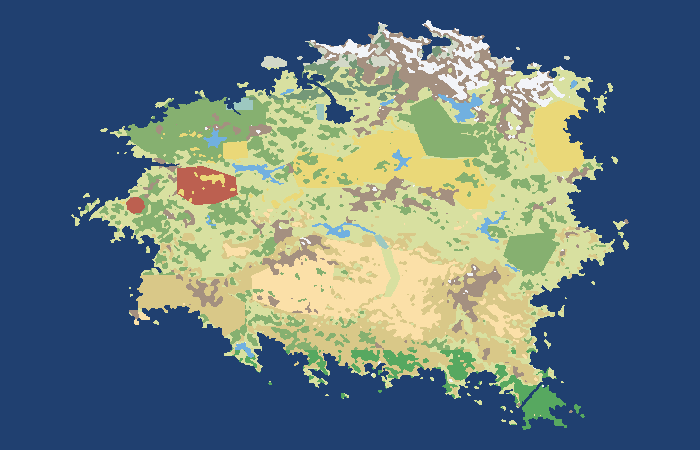
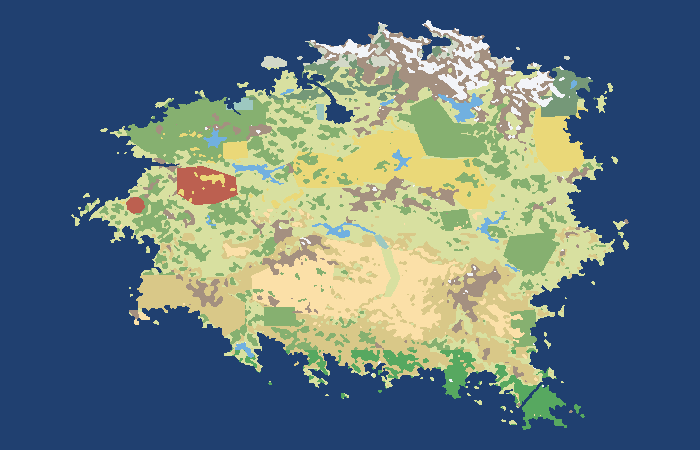
M1 design: ground words for the woods and coasts, sea links, final seats before the write-up [skip ci]
Claude-Session: https://claude.ai/code/session_01E88gMLSb1Qq1nofSPwe7KK

diff --git a/docs/design/m1/design/tables.md b/docs/design/m1/design/tables.md
@@ -166,8 +166,8 @@ Land: 126,642 cells (12,664,200 km2, 40.2% of the frame); the continent 124,287 
 | 53 | Ranpur | Ranpur | capital city | 5305, 3045 | 63,200 | plains | the Eastern Gulf, the Chanpur, the Gullet | the Chanpur's mouth on the Eastern Gulf |
 | 54 | Chanari | Ranpur | city | 5095, 2935 | 75,900 | plains | the Reed Water, the Chanpur, the Gullet | the steel town in the Worldspine's foothills, on the Chanpur |
 | 55 | Tiravi | Ranpur | town | 5085, 2765 | 22,300 | hills | the Reed Water, the Gullet | the Nagora March under the pass (Tirpur fort) |
-| 56 | Madora | Ranpur | market town | 5275, 3285 | 55,800 | plains | the Eastern Gulf, the Madora | the river-mouth fort and teak harbour of the south coast |
-| 57 | Ekapur | Ranpur | market town | 5255, 3165 | 41,500 | plains | the Eastern Gulf, the Chanpur | shore town south of the capital |
+| 56 | Madora | Ranpur | market town | 5275, 3285 | 55,800 | forest | the Eastern Gulf, the Madora | the river-mouth fort and teak harbour of the south coast |
+| 57 | Ekapur | Ranpur | market town | 5255, 3165 | 41,500 | forest | the Eastern Gulf, the Chanpur | shore town south of the capital |
 | 58 | Varenna | Varenna | capital city | 1565, 2625 | 17,300 | forest | the Lion Gulf, the Palella | the Palella's mouth on the Lion Gulf, the only river gate through the coast hills |
 | 59 | Ardata | Varenna | town | 2785, 1845 | 79,900 | plains | the Glenmere, the Glenwash, the Skardush | march town at the east end of the Glenmere, under the Albora Sill |
 | 60 | Camia | Varenna | city | 2135, 2415 | 46,400 | plains | the Crowmere, the Palella | weaving town on the middle Palella |
@@ -295,7 +295,7 @@ Land: 126,642 cells (12,664,200 km2, 40.2% of the frame); the continent 124,287 
 | 182 | Agbay Yam | Ulun | yam station | 4885, 1885 | 24,300 | steppe | the Grey Channel, the Ostec | yam station on the channel shore |
 | 183 | Altsa Yam | Ulun | yam station | 4845, 2005 | 46,100 | steppe | the Grey Water, the Grey Channel | yam station at the Erkent landings of the Sea Wind |
 | 184 | Grakmar | Ughrak | capital city | 5585, 1405 | 38,200 | steppe | the Sunrise Sea | the War-Mother's camp in the middle of the grass |
-| 185 | Drukgar Stockade | Ughrak | ring-fort | 5605, 1105 | 113,700 | steppe | the Sunrise Sea | northern fort at the forest edge |
+| 185 | Drukgar Stockade | Ughrak | ring-fort | 5605, 1105 | 113,700 | forest | the Sunrise Sea | northern fort at the forest edge |
 | 186 | Oggoth Oasis | Ughrak | oasis | 5775, 1555 | 84,000 | steppe | the Sunrise Sea | wells by the coast hills |
 | 187 | Tukgar Stockade | Ughrak | ring-fort | 5415, 1515 | 67,100 | steppe |  | fort under the Mirovo Gap (the Kraoth toll camp) |
 | 188 | Vashuk Oasis | Ughrak | oasis | 5405, 1255 | 120,900 | steppe |  | wells of the Turquoise Hills, on the east face of the Rift Heights |
@@ -393,7 +393,7 @@ Land: 126,642 cells (12,664,200 km2, 40.2% of the frame); the continent 124,287 
 | 280 | Qarifa | Qadir | market town | 1815, 2935 | 25,600 | plains | the Saman | the Saman mills |
 | 281 | The Free Marches | the wilds | unclaimed land | 5335, 2525 | 194,100 | forest | the Reed Water, the Gullet, the Tirana | the forested lowland between the Gullet, the Roof and the Ember Mountains |
 | 282 | The Frostfells | the wilds | unclaimed land | 4075, 715 | 85,400 | mountains | the Northern Ocean | the snow range north-west of the Western Lakes |
-| 283 | The Whale Woods | the wilds | unclaimed land | 5615, 785 | 64,300 | plains | the Northern Ocean, the Seal Lagoon | the forest cape east of Whale Sound |
+| 283 | The Whale Woods | the wilds | unclaimed land | 5615, 785 | 64,300 | forest | the Northern Ocean, the Seal Lagoon | the forest cape east of Whale Sound |
 | 284 | The High Wastes | the wilds | unclaimed land | 5805, 1725 | 22,300 | mountains | the Sunrise Sea | the coast mountains north-east of the Roof |
 | 285 | The Amber Wilds | the wilds | unclaimed land | 5465, 4165 | 19,900 | forest | the Sunrise Sea | the hill interior of Great Amber |
 | 286 | The Isle of Pearls | the wilds | unclaimed land | 5775, 4085 | 4,900 | forest | the Sunrise Sea | the pearl isle east of Great Amber |
@@ -401,20 +401,20 @@ Land: 126,642 cells (12,664,200 km2, 40.2% of the frame); the continent 124,287 
 | 288 | The Burning Waste | the wilds | unclaimed land | 4435, 2905 | 42,800 | hills |  | the bare ranges between the Long Rift and the Worldspine, which no clan grazes |
 | 289 | The Western Veld | the wilds | unclaimed land | 2425, 3515 | 37,800 | plains | the Southern Ocean, the Veld Lagoon | the south-west peninsula |
 | 290 | The Thornveld | the wilds | unclaimed land | 4975, 3555 | 29,200 | hills |  | the dry head of the south-east peninsula |
-| 291 | The Deep Green | the wilds | unclaimed land | 4525, 3795 | 49,800 | plains | the Southern Ocean, the Spice Sea | the rainforest cape |
+| 291 | The Deep Green | the wilds | unclaimed land | 4525, 3795 | 49,800 | forest | the Southern Ocean, the Spice Sea | the rainforest cape |
 | 292 | The Western Highlands | the wilds | unclaimed land | 1555, 1555 | 19,400 | hills | the Long Firth | the coast heights between the Elder Coast and Ashmere |
 | 293 | The Ashlands | the wilds | unclaimed land | 1295, 2125 | 130,100 | plains | the Lion Gulf, the Strait of Hael, the Western Ocean | the western peninsula under Mount Hael |
 | 294 | The Pinewild | the wilds | unclaimed land | 3775, 765 | 85,600 | mountains |  | the pine fells between Cold Bay and the Frostfells |
 | 295 | The Little Amber Wilds | the wilds | unclaimed land | 5825, 4155 | 1,300 | forest | the Sunrise Sea | the lesser isle |
 | 296 | The Bleakfold | the wilds | unclaimed land | 1745, 1585 | 34,100 | forest | the Bleak Water | the bare heights behind the Western Highlands |
-| 297 | The Tverko Woods | the wilds | unclaimed land | 5855, 885 | 34,300 | plains | the Northern Ocean, the Seal Lagoon, the Sunrise Sea | the north-east cape and the northern Sunrise Isles |
+| 297 | The Tverko Woods | the wilds | unclaimed land | 5855, 885 | 34,300 | forest | the Northern Ocean, the Seal Lagoon, the Sunrise Sea | the north-east cape and the northern Sunrise Isles |
 | 298 | The Trolness Fells | the wilds | unclaimed land | 3905, 375 | 105,600 | mountains | the Northern Ocean | the ice coast north of the Iron Mountains |
 | 299 | The Mammoth Downs | the wilds | unclaimed land | 3645, 895 | 132,400 | forest | the Iron Tarn, the Stagflow | the downs between Northreach, the Crossmarch and the Pinewild |
 | 300 | The Dobava Wilds | the wilds | unclaimed land | 5255, 2105 | 30,100 | forest |  | Mount Dobava, the spur between the Neck road and the Roof |
 | 301 | The Stairwood | the wilds | unclaimed land | 5365, 1755 | 42,800 | forest | the Ostec | the forest stair between Velgrad and the Roof |
-| 302 | The Mirun Pines | the wilds | unclaimed land | 2795, 3165 | 73,700 | plains |  | the pine hills west of the Southern Hills |
+| 302 | The Mirun Pines | the wilds | unclaimed land | 2795, 3165 | 73,700 | forest |  | the pine hills west of the Southern Hills |
 | 303 | The Samuma Uplands | the wilds | unclaimed land | 2365, 3385 | 48,000 | forest | the Southern Ocean, the Veld Lagoon | the uplands south of the Gulf of Sands |
-| 304 | The Lunora Woods | the wilds | unclaimed land | 4515, 2175 | 35,400 | plains | the Santora | the wooded hills between the Castina and the Grey Water, north of the Santora |
+| 304 | The Lunora Woods | the wilds | unclaimed land | 4515, 2175 | 35,400 | forest | the Santora | the wooded hills between the Castina and the Grey Water, north of the Santora |
 | 305 | The Firststone Hills | the wilds | unclaimed land | 2275, 1755 | 64,400 | hills | the Glenmere, the Clarora | the ash plain at the Glenmere's west end |
 
 ## Borders
